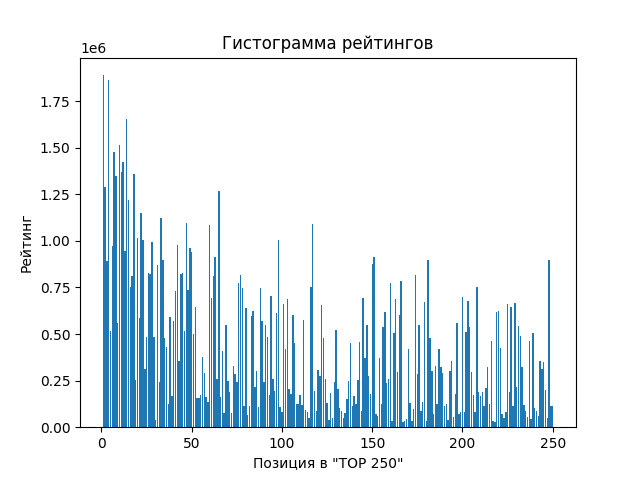
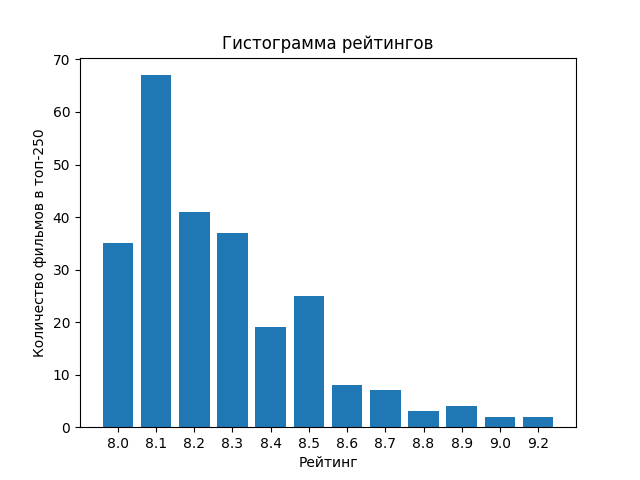
corrections after comments

diff --git a/src/homework5/task4.py b/src/homework5/task4.py
@@ -29,7 +29,7 @@ all_lines = fh.readlines()
 for line in all_lines[28:278]:
     list_line = line.split()
     years.extend(re.findall(r'(\d+)', str(list_line[-1])))
-    num, rating, num3, *title = list_line
+    num, num2, rating, *title = list_line
     str_line = ''
     ratings.append(rating)
     with open('top250_movies', 'a') as file:
@@ -42,11 +42,16 @@ print('Файл "top250_movies" создан!')
 
 
 # Создание ratings.txt
-x = [x for x in range(1, 251)]
-y = [int(y) for y in ratings]
+x = sorted(set(ratings))
+ratings_for_histogram = []
+
+for el in x:
+    ratings_for_histogram.append(ratings.count(el))
+
+y = ratings_for_histogram
 plt.bar(x, y, label='Рейтинг')
-plt.xlabel('Позиция в "TOP 250"')
-plt.ylabel('Рейтинг')
+plt.xlabel('Рейтинг')
+plt.ylabel('Количество фильмов в топ-250')
 plt.title('Гистограмма рейтингов')
 plt.savefig('ratings')
 plt.show()
@@ -58,11 +63,22 @@ print('Файл "ratings.txt" создан!')
 
 
 # Создание years.txt
-x = [x for x in range(1, 251)]
-y = [int(y) for y in years]
+x = sorted(set(years))
+years_for_histogram = []
+
+for el in x:
+    years_for_histogram.append(years.count(el))
+
+y = years_for_histogram
+plt.figure(figsize=(15,5))
+plt.tick_params(axis='x', which='major', labelsize=6)
+plt.tight_layout()
+plt.xticks(
+    rotation=90
+)
 plt.bar(x, y, label='Год')
-plt.xlabel('Позиция в "TOP 250"')
-plt.ylabel('Год')
+plt.xlabel('Год')
+plt.ylabel('Количество фильмов в топ-250')
 plt.title('Гистограмма годов')
 plt.savefig('years')
 plt.show()

diff --git a/src/homework5/task3.py b/src/homework5/task3.py
@@ -4,7 +4,7 @@
 # этот список “сворачивает”
 # def get_ranges(self):
 import copy
-
+import re
 
 def get_ranges(list_num):
     list_all = []
@@ -27,14 +27,15 @@ def get_ranges(list_num):
                 list_part.clear()
 
     for el in list_all:
-        if len(el) > 2:
-            result_str += f'{el[0]}-{el[-1]} '
+        if len(el) >= 2:
+            result_str += f' {el[0]}-{el[-1]} '
         else:
-            result_str += f'{str(*el)}'
+            result_str += f' {str(*el)} '
 
-    result_str = result_str.replace(' ', ', ')
+    result_str = result_str.replace('  ', ', ')
 
     return print(f'Свернули: "{result_str}"')
 
 
-get_ranges([1, 2, 3, 5, 6, 7, 8, 90, 91, 92, 100])
+# get_ranges([1, 2, 3, 5, 6, 7, 8, 90, 91, 92, 100])
+get_ranges([1, 2, 4, 5, 8, 20])

diff --git a/src/homework5/task2.py b/src/homework5/task2.py
@@ -6,11 +6,13 @@ import time
 def my_dec(func):
     def wrapper(*args, **kwargs):
         start_time = time.time()
+        launch_date = time.asctime()
         result = func(*args, **kwargs)
         func_time = time.time() - start_time
         with open('save_file_for_task2', 'a') as file:
             file.writelines(f"функции sum_num: {str(func_result)}, "
-                            f"время выполнения {func_time} \n")
+                            f"время начала работы {launch_date}, "
+                            f"время выполнения {func_time}\n")
         return result
 
     return wrapper

diff --git a/src/homework5/task1.py b/src/homework5/task1.py
@@ -1,13 +1,15 @@
 # Оформите решение задач из прошлых домашних
 # работ в функции. Напишите функцию runner.
 import tasks_functions
+from inspect import isfunction
 
 
 def runner(*args):
     list_func = []
     if not args:
         for func in dir(tasks_functions):
-            if '__' not in func:
+            is_func = getattr(tasks_functions, func)
+            if '__' not in func and isfunction(is_func):
                 list_func.append(func)
         for el in list_func:
             print('Result', el, ':', )
